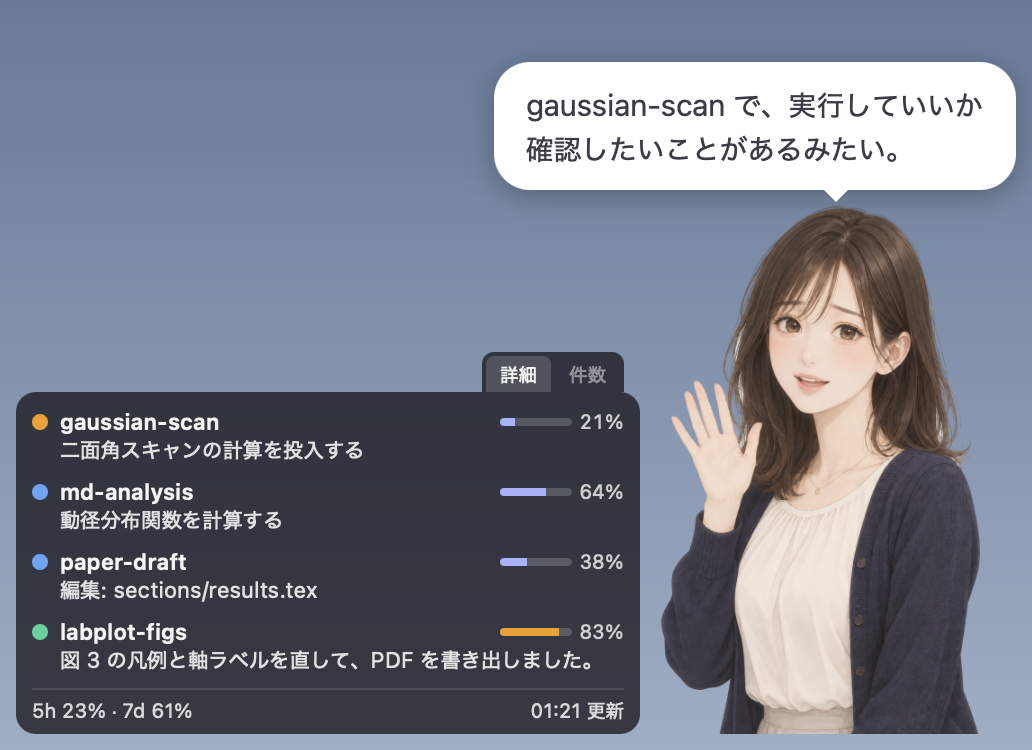
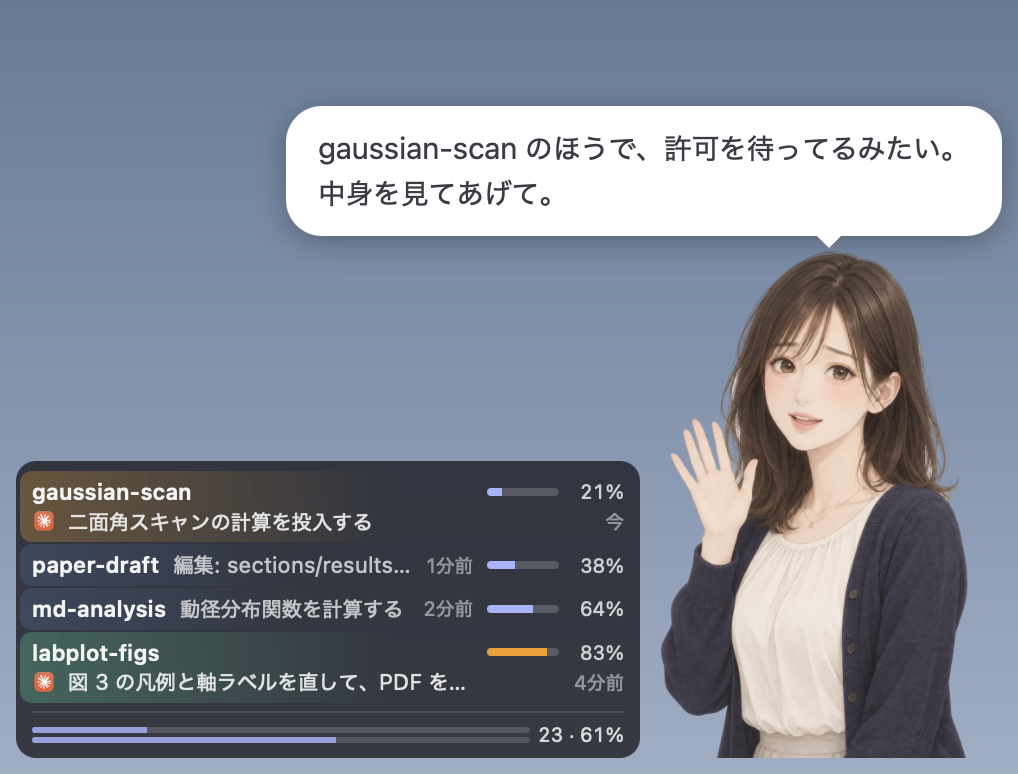
Retake the README screenshot with the tinted rows and bar usage limits, and drop the unused counts image
The screenshot still showed the old detail and count tabs and dot status. It is captured again from the real app with the same fictional sessions, and the caption now describes the tints and bars.

Claude-Session: https://claude.ai/code/session_01P8Z7zGu1SJ73UZmANPGkf9

Changed region(s): [[0.0, 0.0613, 1.0, 0.9813], [0.944, 0.7667, 0.9745, 0.7973], [0.9136, 0.7973, 0.944, 0.828]]

diff --git a/README.md b/README.md
@@ -7,10 +7,10 @@ marimo is a desktop widget that shows the state of your AI coding agent sessions
 A character standing in the corner of the screen uses facial expressions and speech bubbles to tell you whether each session is working, waiting for your approval, or done. The panel beside it shows the context usage of each session and the usage limits of your Claude Code, Codex, and Antigravity accounts. You can follow progress while doing other work, without switching to the agent's window.
 
 <p align="center">
-  <img src="docs/images/screenshot-detail.png" width="516" alt="The marimo window. A speech bubble above the character announces a session waiting for approval, and the panel on the left lists four sessions and the usage limits">
+  <img src="docs/images/screenshot-detail.png" width="509" alt="The marimo window. A speech bubble above the character announces a session waiting for approval, and the panel on the left lists four sessions and the usage limits">
 </p>
 
-In this screenshot, the gaussian-scan session is waiting for permission to run a command, so the character waves and points it out in a speech bubble. The panel lists one session each that is waiting (orange), working (blue), and done (green), and the bottom row shows the usage limits of the whole account. The screenshots show the Japanese interface; marimo also has an English interface (see [Requirements](#requirements)).
+In this screenshot, the gaussian-scan session is waiting for permission to run a command, so the character waves and points it out in a speech bubble. Each session row is tinted by its state: one waiting (orange), two working (blue), and one done (green). Working sessions take a single line. The bottom row shows the usage limits of the whole account as bars for the 5-hour and 7-day windows. The screenshots show the Japanese interface; marimo also has an English interface (see [Requirements](#requirements)).
 
 > [!NOTE]
 > marimo is an unofficial tool made by volunteers. It is not affiliated with, or endorsed by, Anthropic or any other developer of the tools marimo supports. Claude and Claude Code are trademarks of Anthropic. Other product names, such as Codex, ChatGPT, Hermes Agent, OpenCode, Antigravity, and Gemini, may be trademarks or registered trademarks of their respective companies.
